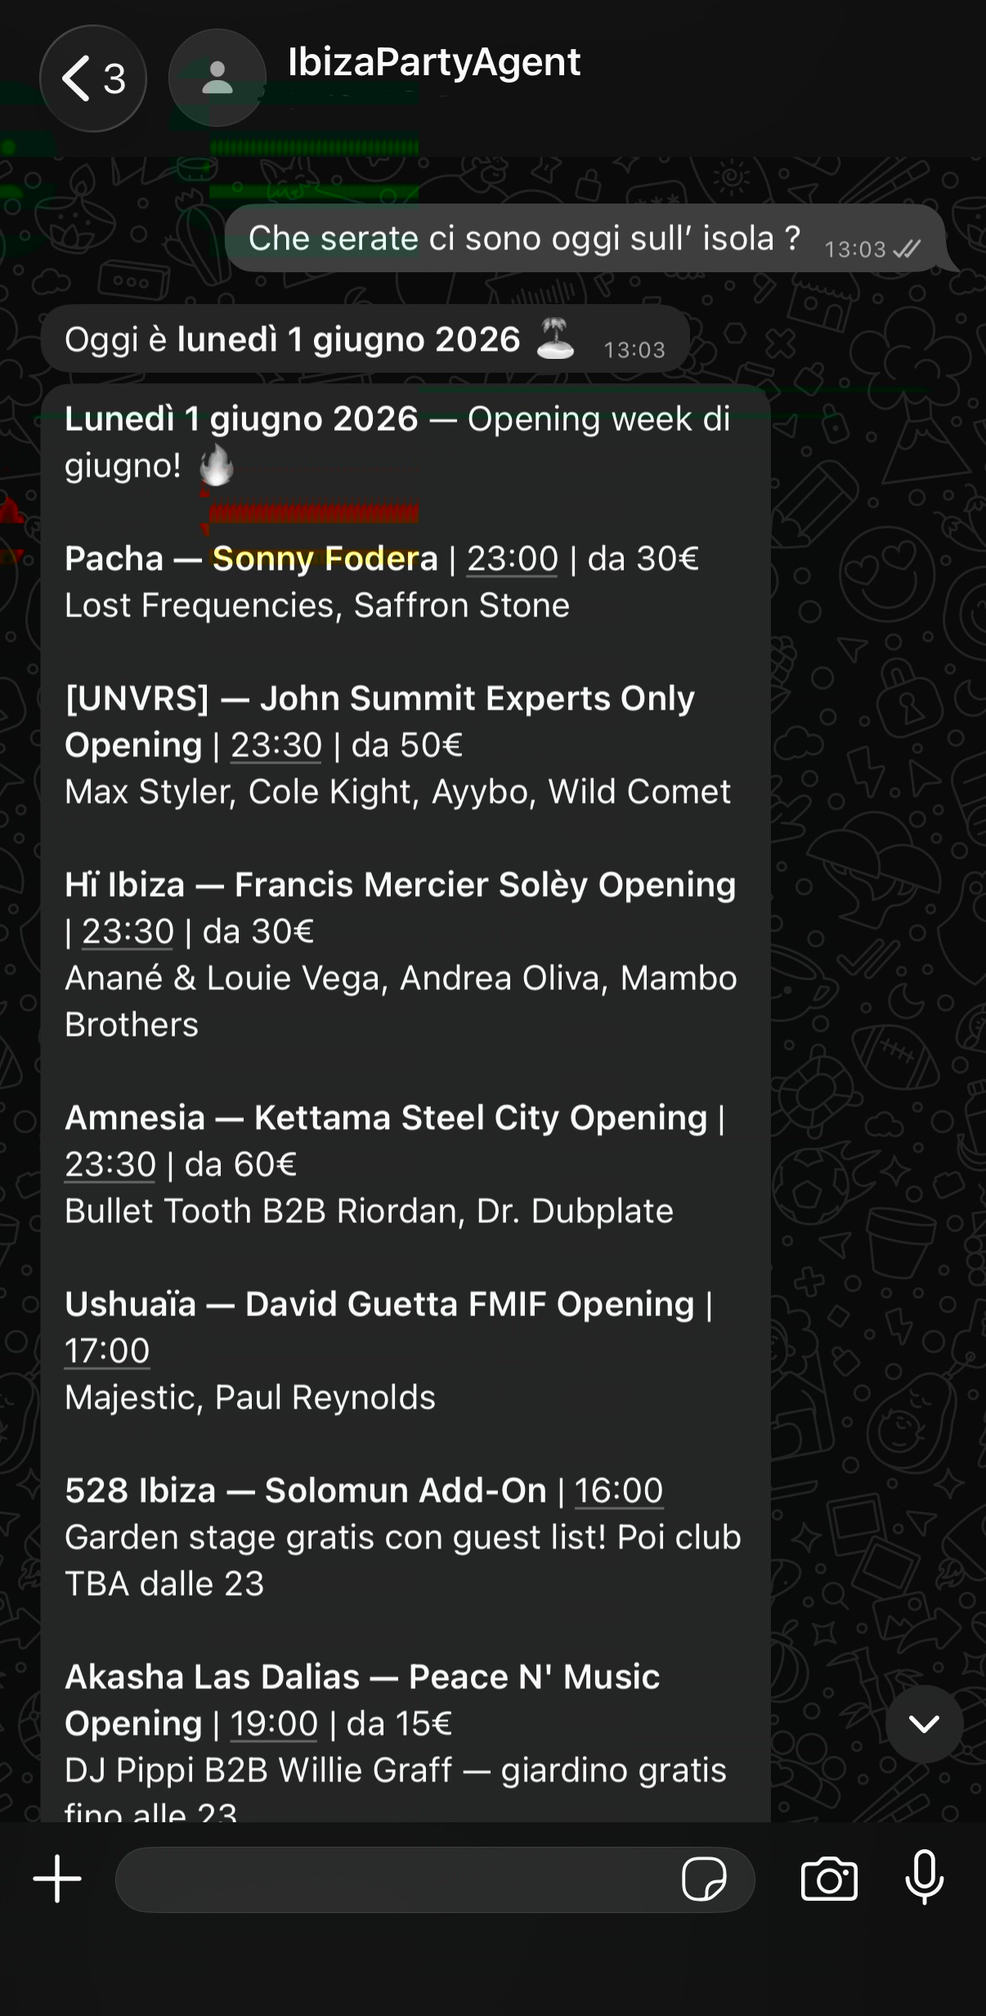
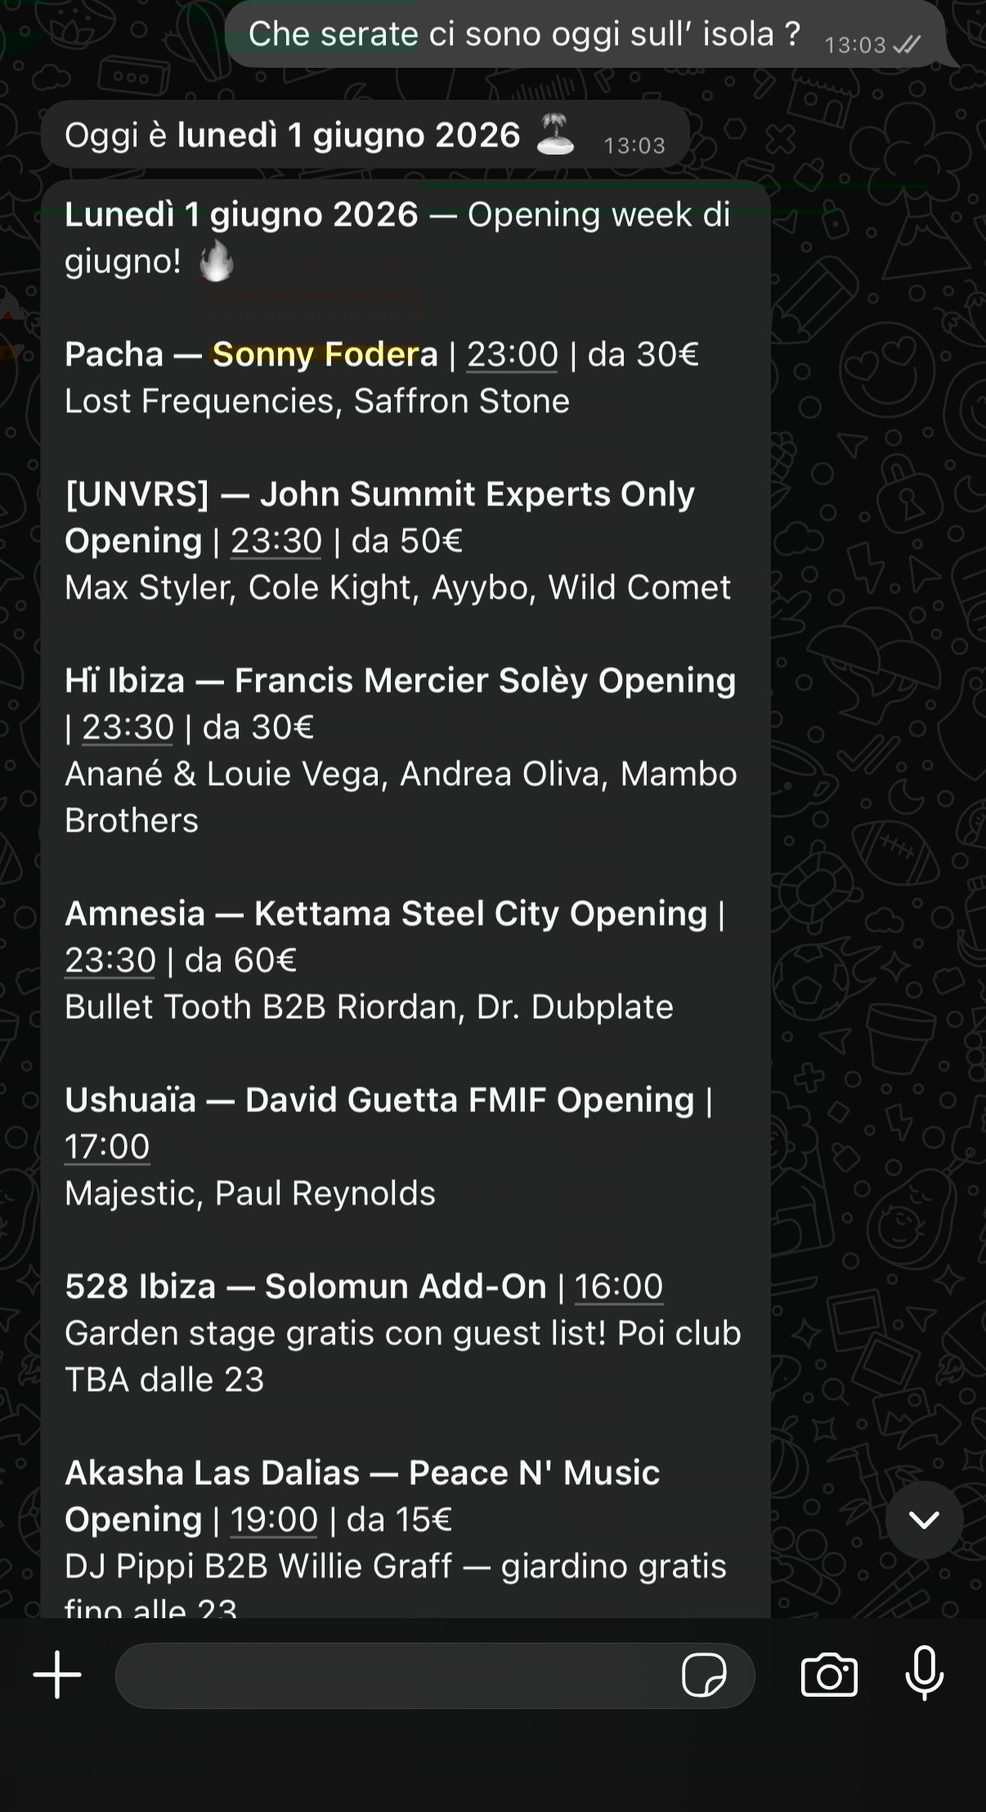
feat: image lightbox, add VM Scout/Aura Ibiza/White Soul Ibiza, fix IbizaPartyAgent screenshots
- Add click-to-enlarge lightbox for all project galleries (prev/next, keyboard nav, counter)
- Add VM Scout, Aura Ibiza and White Soul Ibiza to the portfolio with real screenshots
- Add Instagram link (@_aura_ibiza_) to the Aura Ibiza project card
- Crop and clean up loading-shimmer/scribble artifacts from IbizaPartyAgent screenshots
- Localize the gallery scroll/zoom hint text (IT/EN/ES)

diff --git a/portfolio-landing-pro.tsx b/portfolio-landing-pro.tsx
@@ -1,7 +1,7 @@
 'use client';
 
-import { useState } from 'react';
-import { Code2, Zap, Camera, Palmtree, Send, ChevronRight } from 'lucide-react';
+import { useState, useEffect } from 'react';
+import { Code2, Zap, Camera, Palmtree, Send, ChevronRight, ChevronLeft, X, Maximize2 } from 'lucide-react';
 
 type Lang = 'it' | 'en' | 'es';
 
@@ -66,6 +66,7 @@ const translations = {
     portfolio: {
       title: 'Portfolio',
       cta: 'Contattaci per info',
+      hint: '← scorri · clicca per ingrandire →',
       projects: [
         {
           id: 'ibizapartyagent',
@@ -80,6 +81,52 @@ const translations = {
             'Consigli personalizzati sul pick della settimana',
           ],
           tech: ['Claude AI', 'WhatsApp', 'Real-time Data', 'Web Scraping'],
+          link: null as { label: string; url: string } | null,
+        },
+        {
+          id: 'vmscout',
+          name: 'VM Scout',
+          tag: 'AI Marketing · React · Claude · Instagram Analytics',
+          description: 'Suite di marketing AI-powered multi-brand: genera strategia visiva, palette colori, direzione artistica e query di ricerca immagini (Unsplash/Pexels/Pixabay) a partire da un brief testuale. Analizza l\'account Instagram collegato con Claude e tiene una "memoria di progetto" che si affina automaticamente ad ogni studio.',
+          features: [
+            'Motore AI che genera strategia, piano editoriale, post e storyboard video da un brief',
+            'Instagram Analytics con Claude: engagement, pubblico, top post e sponsorizzate',
+            'Memoria di progetto auto-aggiornante: direttive, punti di forza, cose da migliorare',
+            'Integrazione Canva Studio per template brand e creazione bozze automatica',
+            'Multi-progetto, multi-lingua (IT/EN/ES/FR/DE), autenticazione utenti',
+          ],
+          tech: ['React', 'Vite', 'Claude AI', 'Turso / libSQL', 'Vercel Functions'],
+          link: null as { label: string; url: string } | null,
+        },
+        {
+          id: 'auraibiza',
+          name: 'Aura Ibiza',
+          tag: 'Next.js · Turso · Multi-ruolo · Booking',
+          description: 'Piattaforma di concierge e gestione proprietà per Ibiza: catalogo di ville, yacht e auto di lusso con ricerca, filtri e dettaglio prenotazione. Flusso guidato Scegli → Richiedi → Conferma → Goditi, dashboard multi-ruolo per admin, owner e concierge, calendario disponibilità e pagamenti centralizzati.',
+          features: [
+            'Catalogo ville, yacht e auto con foto, prezzi e disponibilità in tempo reale',
+            'Multi-ruolo: admin, owner, concierge e agent con permessi dedicati',
+            'Calendario prenotazioni, pagamenti e fee concierge centralizzati',
+            'Mappa interattiva delle proprietà (Leaflet) e ricerca per zona',
+            'Autenticazione sicura, notifiche email e deploy su Vercel',
+          ],
+          tech: ['Next.js 14', 'Turso / libSQL', 'NextAuth', 'Leaflet', 'Resend'],
+          link: { label: 'Instagram · @_aura_ibiza_', url: 'https://instagram.com/_aura_ibiza_' } as { label: string; url: string } | null,
+        },
+        {
+          id: 'whitesoulibiza',
+          name: 'White Soul Ibiza',
+          tag: 'Sito Multi-pagina · Vanilla JS · i18n · Concierge',
+          description: 'Sito vetrina multi-pagina per un servizio di concierge ed event planning di lusso a Ibiza. Design editoriale con tipografia Cormorant Garamond, gallerie immersive a tutto schermo e traduzioni caricate da database in 5 lingue.',
+          features: [
+            'Homepage, Servizi, Esperienze, About e Contatti con navigazione fissa',
+            'Traduzioni EN/IT/ES/FR/DE caricate dinamicamente da Turso',
+            'Design editoriale full-bleed con font Cormorant Garamond + Inter',
+            'Widget WhatsApp e form di contatto per richieste dirette',
+            'Zero framework, zero build step — HTML5/CSS3/JS vanilla',
+          ],
+          tech: ['HTML5', 'CSS3', 'Vanilla JS', 'Turso / libSQL', 'i18n'],
+          link: null as { label: string; url: string } | null,
         },
         {
           id: 'conciergeflow',
@@ -95,6 +142,7 @@ const translations = {
             'i18n IT/EN/ES, lazy-loading CDN — caricamento ridotto del ~70%',
           ],
           tech: ['Vanilla JS', 'Turso / libSQL', 'CSS Glassmorphism', 'Multi-tenant', 'i18n'],
+          link: null as { label: string; url: string } | null,
         },
       ],
     },
@@ -183,6 +231,7 @@ const translations = {
     portfolio: {
       title: 'Portfolio',
       cta: 'Contact us for info',
+      hint: '← scroll · click to enlarge →',
       projects: [
         {
           id: 'ibizapartyagent',
@@ -197,6 +246,52 @@ const translations = {
             'Personalised picks and weekly highlights',
           ],
           tech: ['Claude AI', 'WhatsApp', 'Real-time Data', 'Web Scraping'],
+          link: null as { label: string; url: string } | null,
+        },
+        {
+          id: 'vmscout',
+          name: 'VM Scout',
+          tag: 'AI Marketing · React · Claude · Instagram Analytics',
+          description: 'Multi-brand AI-powered marketing suite: generates visual strategy, colour palette, art direction and image search queries (Unsplash/Pexels/Pixabay) from a text brief. Analyses the connected Instagram account with Claude and keeps a self-improving "project memory" that refines itself with every study.',
+          features: [
+            'AI engine that generates strategy, editorial plan, posts and video storyboards from a brief',
+            'Instagram Analytics powered by Claude: engagement, audience, top posts and sponsored content',
+            'Self-updating project memory: directives, strengths, areas to improve',
+            'Canva Studio integration for brand templates and automatic draft creation',
+            'Multi-project, multi-language (IT/EN/ES/FR/DE), user authentication',
+          ],
+          tech: ['React', 'Vite', 'Claude AI', 'Turso / libSQL', 'Vercel Functions'],
+          link: null as { label: string; url: string } | null,
+        },
+        {
+          id: 'auraibiza',
+          name: 'Aura Ibiza',
+          tag: 'Next.js · Turso · Multi-role · Booking',
+          description: 'Concierge and property management platform for Ibiza: a catalogue of luxury villas, yachts and cars with search, filters and a full booking detail view. Guided Choose → Request → Confirm → Enjoy flow, multi-role dashboard for admins, owners and concierges, availability calendar and centralised payments.',
+          features: [
+            'Villa, yacht and car catalogue with photos, pricing and real-time availability',
+            'Multi-role access: admin, owner, concierge and agent with dedicated permissions',
+            'Centralised bookings calendar, payments and concierge fees',
+            'Interactive property map (Leaflet) and search by area',
+            'Secure authentication, email notifications and Vercel deployment',
+          ],
+          tech: ['Next.js 14', 'Turso / libSQL', 'NextAuth', 'Leaflet', 'Resend'],
+          link: { label: 'Instagram · @_aura_ibiza_', url: 'https://instagram.com/_aura_ibiza_' } as { label: string; url: string } | null,
+        },
+        {
+          id: 'whitesoulibiza',
+          name: 'White Soul Ibiza',
+          tag: 'Multi-page Site · Vanilla JS · i18n · Concierge',
+          description: 'Multi-page showcase site for a luxury concierge and event planning service in Ibiza. Editorial design with Cormorant Garamond typography, full-screen immersive galleries and database-driven translations in 5 languages.',
+          features: [
+            'Home, Services, Experiences, About and Contact with a fixed navigation',
+            'EN/IT/ES/FR/DE translations loaded dynamically from Turso',
+            'Full-bleed editorial design with Cormorant Garamond + Inter',
+            'WhatsApp widget and contact form for direct enquiries',
+            'Zero framework, zero build step — vanilla HTML5/CSS3/JS',
+          ],
+          tech: ['HTML5', 'CSS3', 'Vanilla JS', 'Turso / libSQL', 'i18n'],
+          link: null as { label: string; url: string } | null,
         },
         {
           id: 'conciergeflow',
@@ -212,6 +307,7 @@ const translations = {
             'i18n IT/EN/ES, CDN lazy-loading — load time reduced by ~70%',
           ],
           tech: ['Vanilla JS', 'Turso / libSQL', 'CSS Glassmorphism', 'Multi-tenant', 'i18n'],
+          link: null as { label: string; url: string } | null,
         },
       ],
     },
@@ -300,6 +396,7 @@ const translations = {
     portfolio: {
       title: 'Portfolio',
       cta: 'Contáctanos para más info',
+      hint: '← desliza · haz clic para ampliar →',
       projects: [
         {
           id: 'ibizapartyagent',
@@ -314,6 +411,52 @@ const translations = {
             'Recomendaciones personalizadas y picks de la semana',
           ],
           tech: ['Claude AI', 'WhatsApp', 'Real-time Data', 'Web Scraping'],
+          link: null as { label: string; url: string } | null,
+        },
+        {
+          id: 'vmscout',
+          name: 'VM Scout',
+          tag: 'AI Marketing · React · Claude · Instagram Analytics',
+          description: 'Suite de marketing con IA multi-marca: genera estrategia visual, paleta de colores, dirección artística y queries de búsqueda de imágenes (Unsplash/Pexels/Pixabay) a partir de un brief. Analiza la cuenta de Instagram conectada con Claude y mantiene una "memoria de proyecto" que se perfecciona sola con cada estudio.',
+          features: [
+            'Motor de IA que genera estrategia, plan editorial, posts y storyboard de vídeo desde un brief',
+            'Instagram Analytics con Claude: engagement, audiencia, top posts y contenido patrocinado',
+            'Memoria de proyecto autoactualizable: directrices, puntos fuertes, cosas a mejorar',
+            'Integración con Canva Studio para plantillas de marca y creación automática de borradores',
+            'Multi-proyecto, multi-idioma (IT/EN/ES/FR/DE), autenticación de usuarios',
+          ],
+          tech: ['React', 'Vite', 'Claude AI', 'Turso / libSQL', 'Vercel Functions'],
+          link: null as { label: string; url: string } | null,
+        },
+        {
+          id: 'auraibiza',
+          name: 'Aura Ibiza',
+          tag: 'Next.js · Turso · Multi-rol · Reservas',
+          description: 'Plataforma de concierge y gestión de propiedades para Ibiza: catálogo de villas, yates y coches de lujo con búsqueda, filtros y ficha de reserva detallada. Flujo guiado Elegir → Solicitar → Confirmar → Disfrutar, panel multi-rol para admin, owner y concierge, calendario de disponibilidad y pagos centralizados.',
+          features: [
+            'Catálogo de villas, yates y coches con fotos, precios y disponibilidad en tiempo real',
+            'Multi-rol: admin, owner, concierge y agent con permisos dedicados',
+            'Calendario de reservas, pagos y comisiones de concierge centralizados',
+            'Mapa interactivo de propiedades (Leaflet) y búsqueda por zona',
+            'Autenticación segura, notificaciones por email y despliegue en Vercel',
+          ],
+          tech: ['Next.js 14', 'Turso / libSQL', 'NextAuth', 'Leaflet', 'Resend'],
+          link: { label: 'Instagram · @_aura_ibiza_', url: 'https://instagram.com/_aura_ibiza_' } as { label: string; url: string } | null,
+        },
+        {
+          id: 'whitesoulibiza',
+          name: 'White Soul Ibiza',
+          tag: 'Sitio Multi-página · Vanilla JS · i18n · Concierge',
+          description: 'Sitio web multi-página para un servicio de concierge y organización de eventos de lujo en Ibiza. Diseño editorial con tipografía Cormorant Garamond, galerías inmersivas a pantalla completa y traducciones cargadas desde base de datos en 5 idiomas.',
+          features: [
+            'Home, Servicios, Experiencias, About y Contacto con navegación fija',
+            'Traducciones EN/IT/ES/FR/DE cargadas dinámicamente desde Turso',
+            'Diseño editorial a sangre completa con Cormorant Garamond + Inter',
+            'Widget de WhatsApp y formulario de contacto para consultas directas',
+            'Cero framework, cero build step — HTML5/CSS3/JS vanilla',
+          ],
+          tech: ['HTML5', 'CSS3', 'Vanilla JS', 'Turso / libSQL', 'i18n'],
+          link: null as { label: string; url: string } | null,
         },
         {
           id: 'conciergeflow',
@@ -329,6 +472,7 @@ const translations = {
             'i18n IT/EN/ES, lazy-loading CDN — tiempo de carga reducido un ~70%',
           ],
           tech: ['Vanilla JS', 'Turso / libSQL', 'CSS Glassmorphism', 'Multi-tenant', 'i18n'],
+          link: null as { label: string; url: string } | null,
         },
       ],
     },
@@ -365,6 +509,24 @@ const projectImages: Record<string, { src: string; width: string }[]> = {
     { src: '/projects/ibizapartyagent/IMG_5678.jpg', width: '52%' },
     { src: '/projects/ibizapartyagent/IMG_5679.jpg', width: '52%' },
   ],
+  vmscout: [
+    { src: '/projects/vmscout/img-01.jpg', width: '90%' },
+    { src: '/projects/vmscout/img-02.jpg', width: '90%' },
+    { src: '/projects/vmscout/img-03.jpg', width: '90%' },
+    { src: '/projects/vmscout/img-04.jpg', width: '90%' },
+  ],
+  auraibiza: [
+    { src: '/projects/auraibiza/img-01.jpg', width: '90%' },
+    { src: '/projects/auraibiza/img-02.jpg', width: '90%' },
+    { src: '/projects/auraibiza/img-03.jpg', width: '90%' },
+    { src: '/projects/auraibiza/img-04.jpg', width: '90%' },
+  ],
+  whitesoulibiza: [
+    { src: '/projects/whitesoulibiza/img-01.jpg', width: '90%' },
+    { src: '/projects/whitesoulibiza/img-02.jpg', width: '90%' },
+    { src: '/projects/whitesoulibiza/img-03.jpg', width: '90%' },
+    { src: '/projects/whitesoulibiza/img-04.jpg', width: '90%' },
+  ],
   conciergeflow: [
     { src: '/projects/conciergeflow/img-01.jpg', width: '88%' },
     { src: '/projects/conciergeflow/img-02.jpg', width: '88%' },
@@ -395,8 +557,29 @@ export default function ProfessionalPortfolio() {
   const [selectedService, setSelectedService] = useState<string | null>(null);
   const [formData, setFormData] = useState({ name: '', email: '', prefix: '+39', phone: '', service: '', budget: '', message: '' });
   const [submitted, setSubmitted] = useState(false);
+  const [lightbox, setLightbox] = useState<{ id: string; index: number } | null>(null);
 
   const c = translations[lang];
+
+  const lightboxImages = lightbox ? (projectImages[lightbox.id] ?? []) : [];
+
+  const closeLightbox = () => setLightbox(null);
+  const showPrev = () =>
+    setLightbox((cur) => (cur ? { id: cur.id, index: (cur.index - 1 + lightboxImages.length) % lightboxImages.length } : cur));
+  const showNext = () =>
+    setLightbox((cur) => (cur ? { id: cur.id, index: (cur.index + 1) % lightboxImages.length } : cur));
+
+  useEffect(() => {
+    if (!lightbox) return;
+    const onKeyDown = (e: KeyboardEvent) => {
+      if (e.key === 'Escape') closeLightbox();
+      if (e.key === 'ArrowLeft') showPrev();
+      if (e.key === 'ArrowRight') showNext();
+    };
+    window.addEventListener('keydown', onKeyDown);
+    return () => window.removeEventListener('keydown', onKeyDown);
+    // eslint-disable-next-line react-hooks/exhaustive-deps
+  }, [lightbox]);
 
   const handleSubmit = async (e: React.FormEvent) => {
     e.preventDefault();
@@ -745,18 +928,22 @@ export default function ProfessionalPortfolio() {
                   {(projectImages[project.id] ?? []).map((img, i) => (
                     <div
                       key={i}
-                      className="shrink-0 rounded-xl overflow-hidden border border-green-600/20"
+                      onClick={() => setLightbox({ id: project.id, index: i })}
+                      className="group relative shrink-0 rounded-xl overflow-hidden border border-green-600/20 cursor-zoom-in"
                       style={{ scrollSnapAlign: 'start', width: img.width }}
                     >
                       <img
                         src={img.src}
                         alt={`${project.name} screenshot ${i + 1}`}
-                        className="w-full h-auto block"
+                        className="w-full h-auto block transition-transform duration-300 group-hover:scale-[1.03]"
                       />
+                      <div className="absolute inset-0 flex items-center justify-center bg-black/0 group-hover:bg-black/30 transition-colors duration-300">
+                        <Maximize2 className="w-6 h-6 text-white opacity-0 group-hover:opacity-90 transition-opacity duration-300 drop-shadow-lg" />
+                      </div>
                     </div>
                   ))}
                 </div>
-                <p className="text-xs text-gray-600 mono mt-2 text-center">← scroll →</p>
+                <p className="text-xs text-gray-600 mono mt-2 text-center">{c.portfolio.hint}</p>
               </div>
 
               {/* Project info */}
@@ -784,12 +971,27 @@ export default function ProfessionalPortfolio() {
                   ))}
                 </div>
 
-                <a
-                  href="#contact"
-                  className="btn-primary inline-flex items-center gap-2 px-6 py-3 bg-green-600 hover:bg-green-500 text-black font-semibold rounded"
-                >
-                  {c.portfolio.cta} <ChevronRight className="w-4 h-4" />
-                </a>
+                <div className="flex flex-wrap gap-3">
+                  <a
+                    href="#contact"
+                    className="btn-primary inline-flex items-center gap-2 px-6 py-3 bg-green-600 hover:bg-green-500 text-black font-semibold rounded"
+                  >
+                    {c.portfolio.cta} <ChevronRight className="w-4 h-4" />
+                  </a>
+                  {project.link && (
+                    <a
+                      href={project.link.url}
+                      target="_blank"
+                      rel="noopener noreferrer"
+                      className="social-btn inline-flex items-center gap-2 px-6 py-3 rounded-lg border border-pink-500/40 bg-pink-500/5 text-pink-400 hover:border-pink-500/80 hover:bg-pink-500/10 font-semibold"
+                    >
+                      <svg className="w-4 h-4 shrink-0" viewBox="0 0 24 24" fill="currentColor">
+                        <path d="M12 2.163c3.204 0 3.584.012 4.85.07 3.252.148 4.771 1.691 4.919 4.919.058 1.265.069 1.645.069 4.849 0 3.205-.012 3.584-.069 4.849-.149 3.225-1.664 4.771-4.919 4.919-1.266.058-1.644.07-4.85.07-3.204 0-3.584-.012-4.849-.07-3.26-.149-4.771-1.699-4.919-4.92-.058-1.265-.07-1.644-.07-4.849 0-3.204.013-3.583.07-4.849.149-3.227 1.664-4.771 4.919-4.919 1.266-.057 1.645-.069 4.849-.069zM12 0C8.741 0 8.333.014 7.053.072 2.695.272.273 2.69.073 7.052.014 8.333 0 8.741 0 12c0 3.259.014 3.668.072 4.948.2 4.358 2.618 6.78 6.98 6.98C8.333 23.986 8.741 24 12 24c3.259 0 3.668-.014 4.948-.072 4.354-.2 6.782-2.618 6.979-6.98.059-1.28.073-1.689.073-4.948 0-3.259-.014-3.667-.072-4.947-.196-4.354-2.617-6.78-6.979-6.98C15.668.014 15.259 0 12 0zm0 5.838a6.162 6.162 0 100 12.324 6.162 6.162 0 000-12.324zM12 16a4 4 0 110-8 4 4 0 010 8zm6.406-11.845a1.44 1.44 0 100 2.881 1.44 1.44 0 000-2.881z"/>
+                      </svg>
+                      {project.link.label}
+                    </a>
+                  )}
+                </div>
               </div>
 
             </div>
@@ -797,6 +999,55 @@ export default function ProfessionalPortfolio() {
           </div>
         </div>
       </section>
+
+      {/* Lightbox */}
+      {lightbox && lightboxImages[lightbox.index] && (
+        <div
+          className="fixed inset-0 z-[100] bg-black/90 backdrop-blur-sm flex items-center justify-center p-4 md:p-10"
+          onClick={closeLightbox}
+        >
+          <button
+            onClick={(e) => { e.stopPropagation(); closeLightbox(); }}
+            className="absolute top-4 right-4 md:top-6 md:right-6 p-2 rounded-full bg-black/60 border border-green-600/40 text-green-400 hover:bg-green-600/20 hover:text-white transition-colors"
+            aria-label="Close"
+          >
+            <X className="w-6 h-6" />
+          </button>
+
+          {lightboxImages.length > 1 && (
+            <button
+              onClick={(e) => { e.stopPropagation(); showPrev(); }}
+              className="absolute left-2 md:left-6 top-1/2 -translate-y-1/2 p-2 md:p-3 rounded-full bg-black/60 border border-green-600/40 text-green-400 hover:bg-green-600/20 hover:text-white transition-colors"
+              aria-label="Previous"
+            >
+              <ChevronLeft className="w-6 h-6 md:w-7 md:h-7" />
+            </button>
+          )}
+
+          <img
+            src={lightboxImages[lightbox.index].src}
+            alt={`${lightbox.id} screenshot ${lightbox.index + 1}`}
+            onClick={(e) => e.stopPropagation()}
+            className="max-h-[88vh] max-w-[92vw] object-contain rounded-lg border border-green-600/20 shadow-[0_0_60px_rgba(34,197,94,0.15)]"
+          />
+
+          {lightboxImages.length > 1 && (
+            <button
+              onClick={(e) => { e.stopPropagation(); showNext(); }}
+              className="absolute right-2 md:right-6 top-1/2 -translate-y-1/2 p-2 md:p-3 rounded-full bg-black/60 border border-green-600/40 text-green-400 hover:bg-green-600/20 hover:text-white transition-colors"
+              aria-label="Next"
+            >
+              <ChevronRight className="w-6 h-6 md:w-7 md:h-7" />
+            </button>
+          )}
+
+          {lightboxImages.length > 1 && (
+            <div className="absolute bottom-4 md:bottom-6 left-1/2 -translate-x-1/2 mono text-xs text-green-400/80 bg-black/60 px-3 py-1 rounded-full border border-green-600/30">
+              {lightbox.index + 1} / {lightboxImages.length}
+            </div>
+          )}
+        </div>
+      )}
 
       {/* Contact Form */}
       <section id="contact" className="py-20 px-6 border-t border-green-600/20 bg-gradient-to-b from-transparent via-green-950/5 to-transparent">
